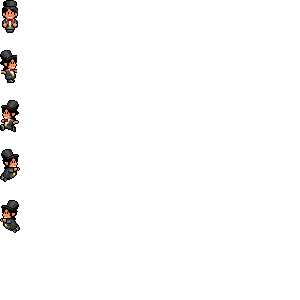
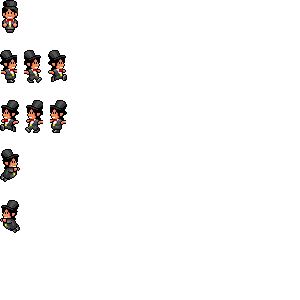
Gentleman Changes

Changed region(s): [[0.06, 0.15, 0.24, 0.3], [0.09, 0.33, 0.24, 0.45]]

diff --git a/KeysToInsanity/KeysToInsanity/Code/Entitys/TheGentleman.cs b/KeysToInsanity/KeysToInsanity/Code/Entitys/TheGentleman.cs
@@ -166,11 +166,11 @@ namespace KeysToInsanity.Code
 
             // run right
             Animation runRight = new Animation();
-            runRight.AddUniformStrip(new Rectangle(0, 50, 20, 32), new Point(19, 32), TimeSpan.FromSeconds(0.08));
+            runRight.AddUniformStrip(new Rectangle(0, 50, 70, 32), new Point(16, 32), TimeSpan.FromSeconds(0.09));
 
             // run left
             Animation runLeft = new Animation();
-            runLeft.AddUniformStrip(new Rectangle(0, 100, 20, 32), new Point(19, 32), TimeSpan.FromSeconds(0.08));
+            runLeft.AddUniformStrip(new Rectangle(0, 100, 70, 32), new Point(16, 32), TimeSpan.FromSeconds(0.09));
 
             // fall right
             Animation fallRight = new Animation();
